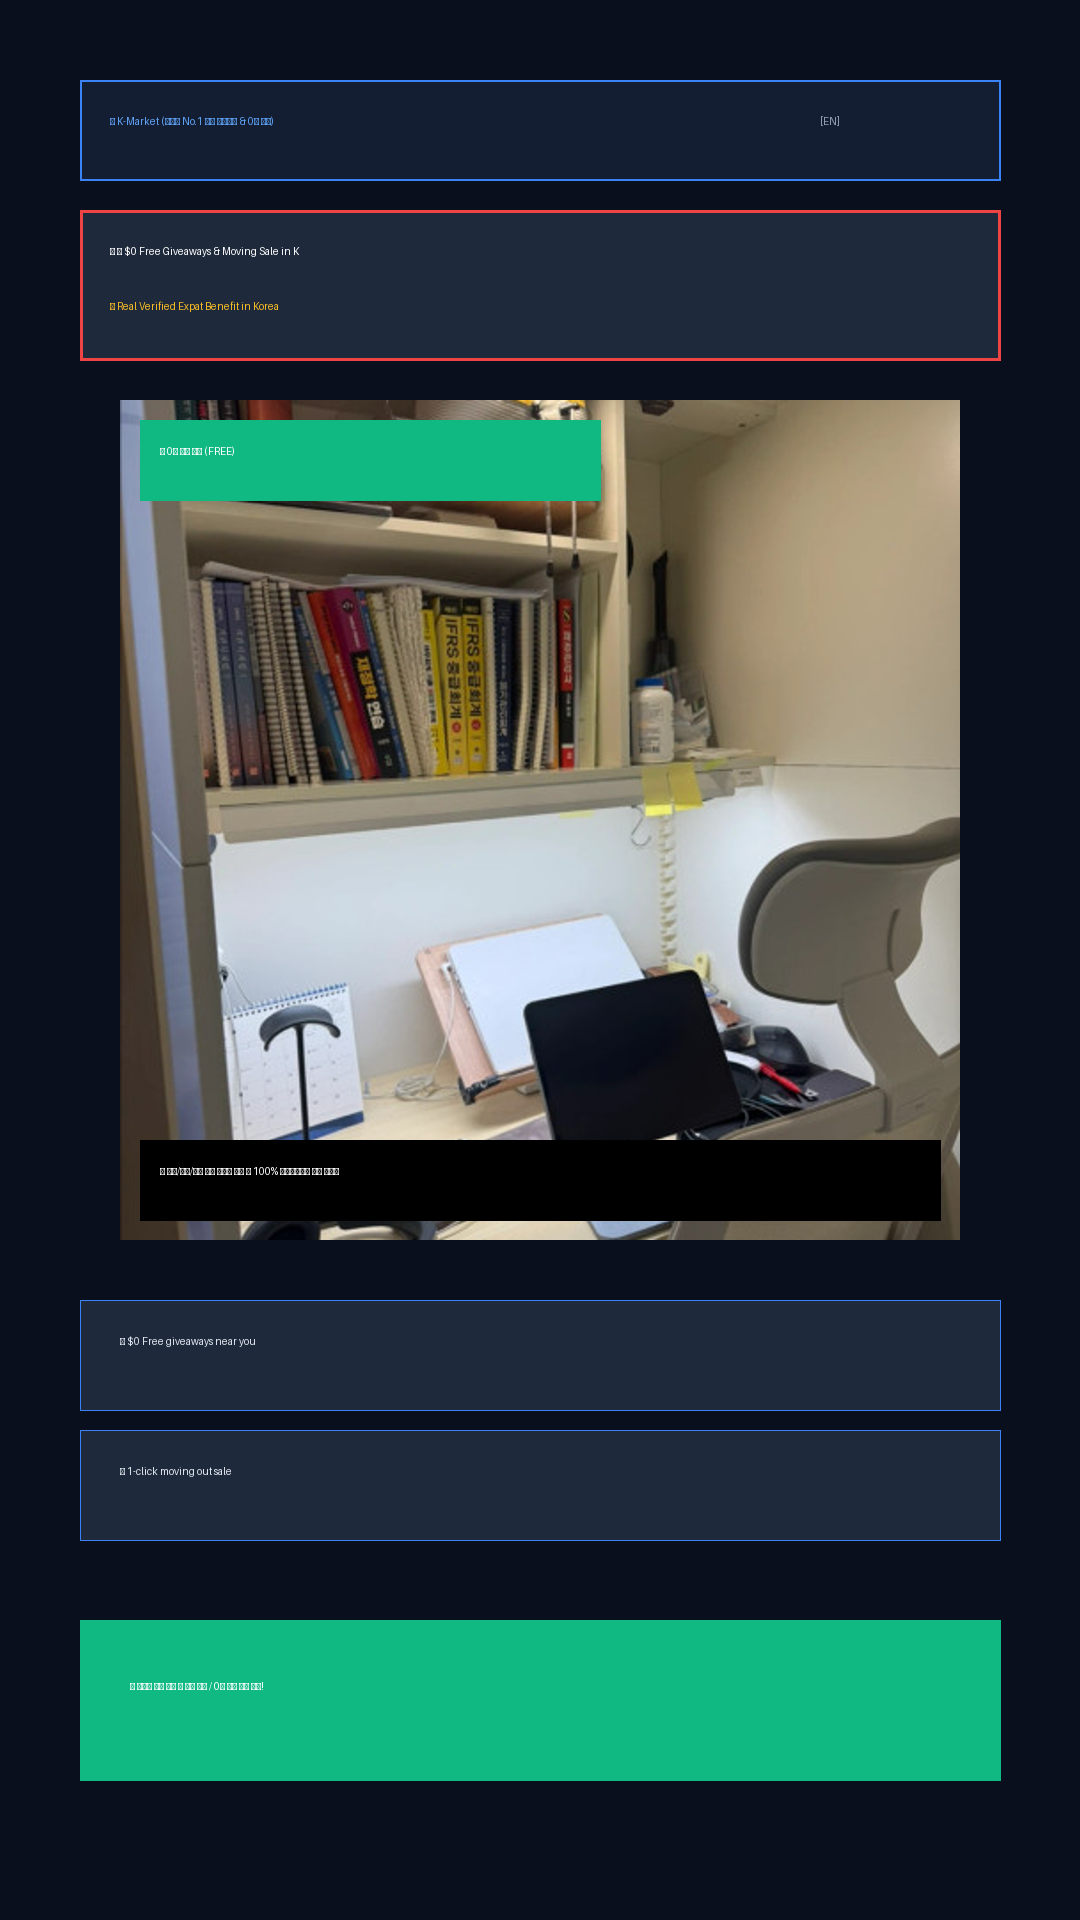
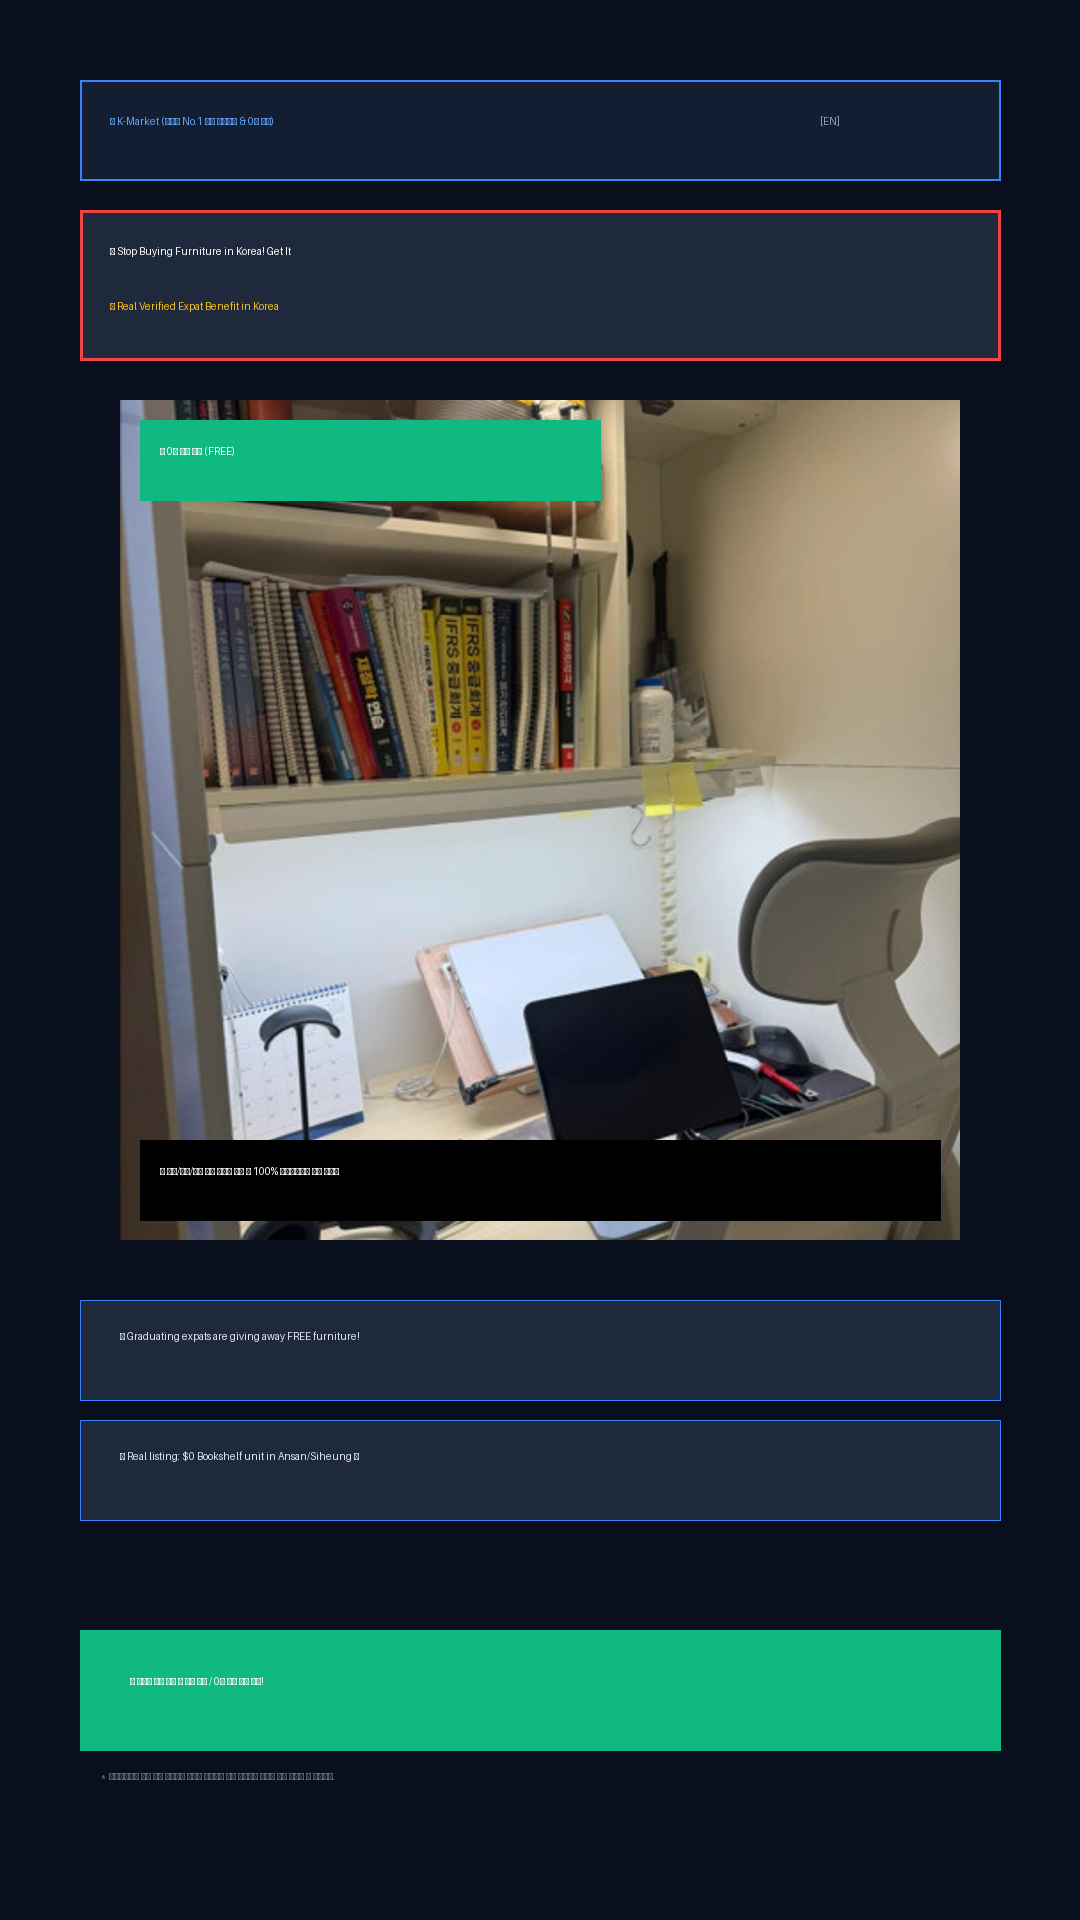
Test: Verified full 1-cycle execution with language weights and generated multi-lang media

Changed region(s): [[0.0611, 0.6875, 0.9472, 0.8125], [0.0611, 0.8438, 0.9472, 0.9375]]

diff --git a/kmarket-marketing-engine/outputs/blogs/kmarket/kmarket_blog_vi_1787713152.html b/kmarket-marketing-engine/outputs/blogs/kmarket/kmarket_blog_vi_1787713152.html
@@ -1,0 +1,1 @@
+<html><body><article># Cẩm nang 2026: Cách nhận đồ nội thất 0 Won & mẹo chuyển nhà giá rẻ tại Hàn Quốc<br><br>Chuyển nhà hay bắt đầu kỳ học mới tại Hàn Quốc luôn là nỗi lo lớn về chi phí với du học sinh và người lao động Việt Nam. Làm thế nào để tiết kiệm hàng triệu won tiền mua sắm bàn học, giường, tủ lạnh?<br><br>## 1. Mùa xả đồ nội thất 0 Won tại các trường đại học<br>Vào tháng 2 và tháng 8 hàng năm, hàng ngàn sinh viên tốt nghiệp để lại đồ đạc còn rất mới. Thay vì vứt bỏ phải trả phí rác thải lớn, họ sẵn sàng tặng lại 0 Won cho người cần.<br><br>## 2. Tránh bẫy lừa đảo khi giao dịch đồ cũ<br>- Luôn kiểm tra xác thực người dùng (ARC)<br>- Giao dịch trực tiếp tại cổng ký túc xá hoặc ga tàu điện ngầm<br>- Sử dụng ứng dụng có tích hợp dịch tự động để tránh bất đồng ngôn ngữ<br><br>## 3. Khám phá kho đồ 0 Won miễn phí ngay hôm nay<br>👉 **[Truy cập K-Market - Sàn đồ cũ & 0 Won cho người nước ngoài tại Hàn Quốc](https://k-market.app?utm_source=wordpress_medium&utm_medium=organic_seo_blog&utm_campaign=kmarket_blog_vi_vi_202608&lang=vi)**  <br>Hỗ trợ chat dịch tự động 17 ngôn ngữ, kết nối trực tiếp không qua trung gian!<br></article></body></html>

diff --git a/kmarket-marketing-engine/outputs/blogs/kmarket/kmarket_blog_vi_1787713226.html b/kmarket-marketing-engine/outputs/blogs/kmarket/kmarket_blog_vi_1787713226.html
@@ -1,0 +1,1 @@
+<html><body><article># Cẩm nang 2026: Cách nhận đồ nội thất 0 Won & mẹo chuyển nhà giá rẻ tại Hàn Quốc<br><br>Chuyển nhà hay bắt đầu kỳ học mới tại Hàn Quốc luôn là nỗi lo lớn về chi phí với du học sinh và người lao động Việt Nam. Làm thế nào để tiết kiệm hàng triệu won tiền mua sắm bàn học, giường, tủ lạnh?<br><br>## 1. Mùa xả đồ nội thất 0 Won tại các trường đại học<br>Vào tháng 2 và tháng 8 hàng năm, hàng ngàn sinh viên tốt nghiệp để lại đồ đạc còn rất mới. Thay vì vứt bỏ phải trả phí rác thải lớn, họ sẵn sàng tặng lại 0 Won cho người cần.<br><br>## 2. Tránh bẫy lừa đảo khi giao dịch đồ cũ<br>- Luôn kiểm tra xác thực người dùng (ARC)<br>- Giao dịch trực tiếp tại cổng ký túc xá hoặc ga tàu điện ngầm<br>- Sử dụng ứng dụng có tích hợp dịch tự động để tránh bất đồng ngôn ngữ<br><br>## 3. Khám phá kho đồ 0 Won miễn phí ngay hôm nay<br>👉 **[Truy cập K-Market - Sàn đồ cũ & 0 Won cho người nước ngoài tại Hàn Quốc](https://k-market.app?utm_source=wordpress_medium&utm_medium=organic_seo_blog&utm_campaign=kmarket_blog_vi_vi_202608&lang=vi)**  <br>Hỗ trợ chat dịch tự động 17 ngôn ngữ, kết nối trực tiếp không qua trung gian!<br></article></body></html>

diff --git a/kmarket-marketing-engine/outputs/blogs/easytax/easytax_blog_vi_1787713152.html b/kmarket-marketing-engine/outputs/blogs/easytax/easytax_blog_vi_1787713152.html
@@ -1,0 +1,1 @@
+<html><body><article># Hướng dẫn 2026: Quyền giảm 90% thuế thu nhập (Điều 30) & Hoàn thuế 5 năm cho lao động E-9 tại Hàn Quốc<br><br>Rất nhiều người lao động Việt Nam visa E-9, H-2 và du học sinh D-2 đang nộp thừa hàng triệu won tiền thuế hàng năm mà không biết cách lấy lại.<br><br>## 1. Giảm 90% thuế thu nhập theo Điều 30 Luật Miễn giảm thuế đặc biệt<br>- Áp dụng cho người lao động làm việc tại các doanh nghiệp vừa và nhỏ (SME)<br>- Mức giảm thuế tối đa lên tới 90% (tối đa 2.000.000 KRW/năm)<br>- Có thể yêu cầu hoàn thuế hồi tố trong vòng 5 năm qua (2020~2025)<br><br>## 2. Hoàn 100% thuế 3.3% cho du học sinh D-2 làm thêm<br>Nếu bạn làm thêm tại nhà hàng, quán cafe và bị trừ 3.3% thuế thu nhập, toàn bộ số tiền này đều được hoàn lại 100% thông qua kỳ quyết toán thuế tháng 5.<br><br>## 3. Tính thử số tiền hoàn thuế miễn phí trong 3 phút<br>🛡 Không thu phí trước • Xử lý qua đại lý thuế công nhận bởi Cục Thuế Quốc gia Hàn Quốc.<br><br>👉 **[Bấm vào đây để tính thử số tiền hoàn thuế miễn phí trên EasyTax](https://easytax.app?utm_source=wordpress_medium&utm_medium=organic_seo_tax_blog&utm_campaign=easytax_blog_vi_vi_202608&lang=vi)**<br></article></body></html>

diff --git a/kmarket-marketing-engine/outputs/blogs/easytax/easytax_blog_ne_1787713152.html b/kmarket-marketing-engine/outputs/blogs/easytax/easytax_blog_ne_1787713152.html
@@ -1,0 +1,1 @@
+<html><body><article># 2026 Korea Expat Tax Relief: Article 30 90% Income Tax Reduction & 5-Year Retroactive Refund Manual<br><br>Are you an expat or foreign worker in Korea? You might have overpaid millions of KRW in income taxes without knowing your legal rights.<br><br>## 1. Article 30 (SME Income Tax Reduction)<br>- Up to 90% reduction on earned income tax for foreign workers at small/medium enterprises.<br>- Eligible for retroactive claims for the past 5 tax years (2020~2025).<br><br>## 2. D-2 Student 3.3% Part-Time Tax Refund<br>- 100% refundable if total annual earnings fall under basic deductions.<br><br>## 3. 100% Free AI Simulation with Zero Upfront Fees<br>🛡 Handled by certified National Tax Service accountants.<br><br>👉 **[Estimate Your Exact Tax Refund on EasyTax Today](https://easytax.app?utm_source=wordpress_medium&utm_medium=organic_seo_tax_blog&utm_campaign=easytax_blog_ne_ne_202608&lang=ne)**<br></article></body></html>

diff --git a/kmarket-marketing-engine/outputs/blogs/easytax/easytax_blog_zh_1787713152.html b/kmarket-marketing-engine/outputs/blogs/easytax/easytax_blog_zh_1787713152.html
@@ -1,0 +1,1 @@
+<html><body><article># 2026 Korea Expat Tax Relief: Article 30 90% Income Tax Reduction & 5-Year Retroactive Refund Manual<br><br>Are you an expat or foreign worker in Korea? You might have overpaid millions of KRW in income taxes without knowing your legal rights.<br><br>## 1. Article 30 (SME Income Tax Reduction)<br>- Up to 90% reduction on earned income tax for foreign workers at small/medium enterprises.<br>- Eligible for retroactive claims for the past 5 tax years (2020~2025).<br><br>## 2. D-2 Student 3.3% Part-Time Tax Refund<br>- 100% refundable if total annual earnings fall under basic deductions.<br><br>## 3. 100% Free AI Simulation with Zero Upfront Fees<br>🛡 Handled by certified National Tax Service accountants.<br><br>👉 **[Estimate Your Exact Tax Refund on EasyTax Today](https://easytax.app?utm_source=wordpress_medium&utm_medium=organic_seo_tax_blog&utm_campaign=easytax_blog_zh_zh_202608&lang=zh)**<br></article></body></html>

diff --git a/kmarket-marketing-engine/outputs/blogs/kmarket/kmarket_blog_bn_1787713152.html b/kmarket-marketing-engine/outputs/blogs/kmarket/kmarket_blog_bn_1787713152.html
@@ -1,0 +1,1 @@
+<html><body><article># 2026 Korea Expat Guide: How to Get $0 Free Furniture & Moving Deals Near Universities<br><br>Moving into a new studio in Seoul, Ansan, or Suwon? Buying brand-new furniture can cost millions of KRW. Here is the ultimate guide to furnishing your room for $0.<br><br>## 1. Campus Moving-Out Seasons (Feb & Aug)<br>Graduating students leave quality desks, chairs, and appliances for free to avoid large waste disposal fees.<br><br>## 2. Safe Expat Direct Deals<br>- Avoid wire scams by meeting near campus main gates.<br>- Use 17-language instant translation chat to negotiate without language barriers.<br><br>👉 **[Claim 0 KRW Free Items on K-Market Today](https://k-market.app?utm_source=wordpress_medium&utm_medium=organic_seo_blog&utm_campaign=kmarket_blog_bn_bn_202608&lang=bn)**<br></article></body></html>

diff --git a/kmarket-marketing-engine/outputs/blogs/kmarket/kmarket_blog_en_1787713152.html b/kmarket-marketing-engine/outputs/blogs/kmarket/kmarket_blog_en_1787713152.html
@@ -1,0 +1,1 @@
+<html><body><article># 2026 Korea Expat Guide: How to Get $0 Free Furniture & Moving Deals Near Universities<br><br>Moving into a new studio in Seoul, Ansan, or Suwon? Buying brand-new furniture can cost millions of KRW. Here is the ultimate guide to furnishing your room for $0.<br><br>## 1. Campus Moving-Out Seasons (Feb & Aug)<br>Graduating students leave quality desks, chairs, and appliances for free to avoid large waste disposal fees.<br><br>## 2. Safe Expat Direct Deals<br>- Avoid wire scams by meeting near campus main gates.<br>- Use 17-language instant translation chat to negotiate without language barriers.<br><br>👉 **[Claim 0 KRW Free Items on K-Market Today](https://k-market.app?utm_source=wordpress_medium&utm_medium=organic_seo_blog&utm_campaign=kmarket_blog_en_en_202608&lang=en)**<br></article></body></html>

diff --git a/kmarket-marketing-engine/outputs/blogs/kmarket/kmarket_blog_en_1787713226.html b/kmarket-marketing-engine/outputs/blogs/kmarket/kmarket_blog_en_1787713226.html
@@ -1,0 +1,1 @@
+<html><body><article># 2026 Korea Expat Guide: How to Get $0 Free Furniture & Moving Deals Near Universities<br><br>Moving into a new studio in Seoul, Ansan, or Suwon? Buying brand-new furniture can cost millions of KRW. Here is the ultimate guide to furnishing your room for $0.<br><br>## 1. Campus Moving-Out Seasons (Feb & Aug)<br>Graduating students leave quality desks, chairs, and appliances for free to avoid large waste disposal fees.<br><br>## 2. Safe Expat Direct Deals<br>- Avoid wire scams by meeting near campus main gates.<br>- Use 17-language instant translation chat to negotiate without language barriers.<br><br>👉 **[Claim 0 KRW Free Items on K-Market Today](https://k-market.app?utm_source=wordpress_medium&utm_medium=organic_seo_blog&utm_campaign=kmarket_blog_en_en_202608&lang=en)**<br></article></body></html>

diff --git a/kmarket-marketing-engine/outputs/blogs/kmarket/kmarket_blog_zh_1787713226.html b/kmarket-marketing-engine/outputs/blogs/kmarket/kmarket_blog_zh_1787713226.html
@@ -1,0 +1,1 @@
+<html><body><article># 2026 Korea Expat Guide: How to Get $0 Free Furniture & Moving Deals Near Universities<br><br>Moving into a new studio in Seoul, Ansan, or Suwon? Buying brand-new furniture can cost millions of KRW. Here is the ultimate guide to furnishing your room for $0.<br><br>## 1. Campus Moving-Out Seasons (Feb & Aug)<br>Graduating students leave quality desks, chairs, and appliances for free to avoid large waste disposal fees.<br><br>## 2. Safe Expat Direct Deals<br>- Avoid wire scams by meeting near campus main gates.<br>- Use 17-language instant translation chat to negotiate without language barriers.<br><br>👉 **[Claim 0 KRW Free Items on K-Market Today](https://k-market.app?utm_source=wordpress_medium&utm_medium=organic_seo_blog&utm_campaign=kmarket_blog_zh_zh_202608&lang=zh)**<br></article></body></html>

diff --git a/kmarket-marketing-engine/test_full_cycles.py b/kmarket-marketing-engine/test_full_cycles.py
@@ -1,0 +1,37 @@
+import sys
+if hasattr(sys.stdout, 'reconfigure'): sys.stdout.reconfigure(encoding='utf-8')
+
+from core.db_manager import DBManager
+from core.supabase_manager import SupabaseManager
+from core.kmarket_bot import KMarketGrowthBot
+from core.easytax_bot import EasyTaxRefundBot
+
+print("==================================================")
+print("🚀 [1/2] K-Market 성장 봇 1회 사이클 실시간 테스트")
+print("==================================================")
+db = DBManager()
+sm = SupabaseManager(db)
+
+km_bot = KMarketGrowthBot(db, sm)
+km_res = km_bot.run_kmarket_cycle()
+
+print("\n🎉 [K-Market 사이클 완료]:")
+print(f"  • 0원 나눔 숏폼: {km_res['shorts_count']}건")
+print(f"  • 실물 매물 카드뉴스: {km_res['cardnews_count']}장")
+print(f"  • 텔레그램 브리핑: {km_res['telegram_count']}건")
+print(f"  • 레딧 스캔/답변: {km_res['reddit_count']}건")
+print(f"  • SEO 블로그 발행: {km_res['blog_count']}건")
+
+print("\n==================================================")
+print("💰 [2/2] EasyTax 세무 봇 1회 사이클 실시간 테스트")
+print("==================================================")
+tax_bot = EasyTaxRefundBot(db, sm)
+tax_res = tax_bot.run_easytax_cycle()
+
+print("\n🎉 [EasyTax 사이클 완료]:")
+print(f"  • 세무 환급 숏폼: {tax_res['shorts_count']}건")
+print(f"  • Anti-Ban 카드뉴스: {tax_res['cardnews_count']}장")
+print(f"  • 텔레그램 브리핑: {tax_res['telegram_count']}건")
+print(f"  • 레딧 스캔/답변: {tax_res['reddit_count']}건")
+print(f"  • 세무 블로그 발행: {tax_res['blog_count']}건")
+print("==================================================")

diff --git a/kmarket-marketing-engine/core/gemini_kmarket.py b/kmarket-marketing-engine/core/gemini_kmarket.py
@@ -79,7 +79,7 @@ You are a friendly, veteran foreign expat living in South Korea, helping a fello
 
         return f"Hey there! If you're looking for affordable or free furniture in Korea, check out local expat moving sales on K-Market ({landing_url}). You can find 0 KRW free giveaways and chat directly in 17 languages!"
 
-    def generate_shorts_script(self, target_lang: str = "ko", psychology: str = "free_giveaway_emotional", ab_group: str = "A") -> Dict[str, Any]:
+    def generate_shorts_script(self, *args, target_lang: str = "ko", psychology: str = "free_giveaway_emotional", ab_group: str = "A", **kwargs) -> Dict[str, Any]:
         """
         [K-Market 자가학습 고도화] 3대 심리 유형 & A/B 테스트 기반 숏폼 대본 생성
         - psychology:
@@ -88,6 +88,9 @@ You are a friendly, veteran foreign expat living in South Korea, helping a fello
           3. 'multi_lang_comfort': 17개국 모국어 편의/사기방지형
         - ab_group: 'A' (직설적 혜택 강조) / 'B' (외국인 공감 스토리텔링)
         """
+        # kwargs or args 에서 target_lang 추출 지원
+        if args and isinstance(args[-1], str) and len(args[-1]) == 2:
+            target_lang = args[-1]
         lang_info = LANGUAGES.get(target_lang, LANGUAGES["ko"])
         
         # 심리 유형에 맞는 실시간 매물 매칭

diff --git a/kmarket-marketing-engine/core/gemini_easytax.py b/kmarket-marketing-engine/core/gemini_easytax.py
@@ -83,8 +83,10 @@ You are a knowledgeable and trusted tax advisory assistant in South Korea, answe
 
         return f"Under Korean Tax Law (Article 30), foreign workers in SMEs can receive up to 90% income tax reduction. D-2 students can claim back 100% of 3.3% withholding tax. You can simulate your 5-year refund 100% free with no upfront fees at EasyTax ({landing_url})."
 
-    def generate_shorts_script(self, target_lang: str = "ko", psychology: str = "relief_rights") -> Dict[str, Any]:
+    def generate_shorts_script(self, *args, target_lang: str = "ko", psychology: str = "relief_rights", **kwargs) -> Dict[str, Any]:
         """EasyTax 합법 세무 환급 30초 숏폼 대본 생성 (refund_scripts 고도화 & Anti-Ban 가드레일)"""
+        if args and isinstance(args[-1], str) and len(args[-1]) == 2:
+            target_lang = args[-1]
         lang_info = LANGUAGES.get(target_lang, LANGUAGES["ko"])
         proven_scripts = self.supabase_mgr.fetch_easytax_proven_scripts(limit=2)
         proven_guide = ""
